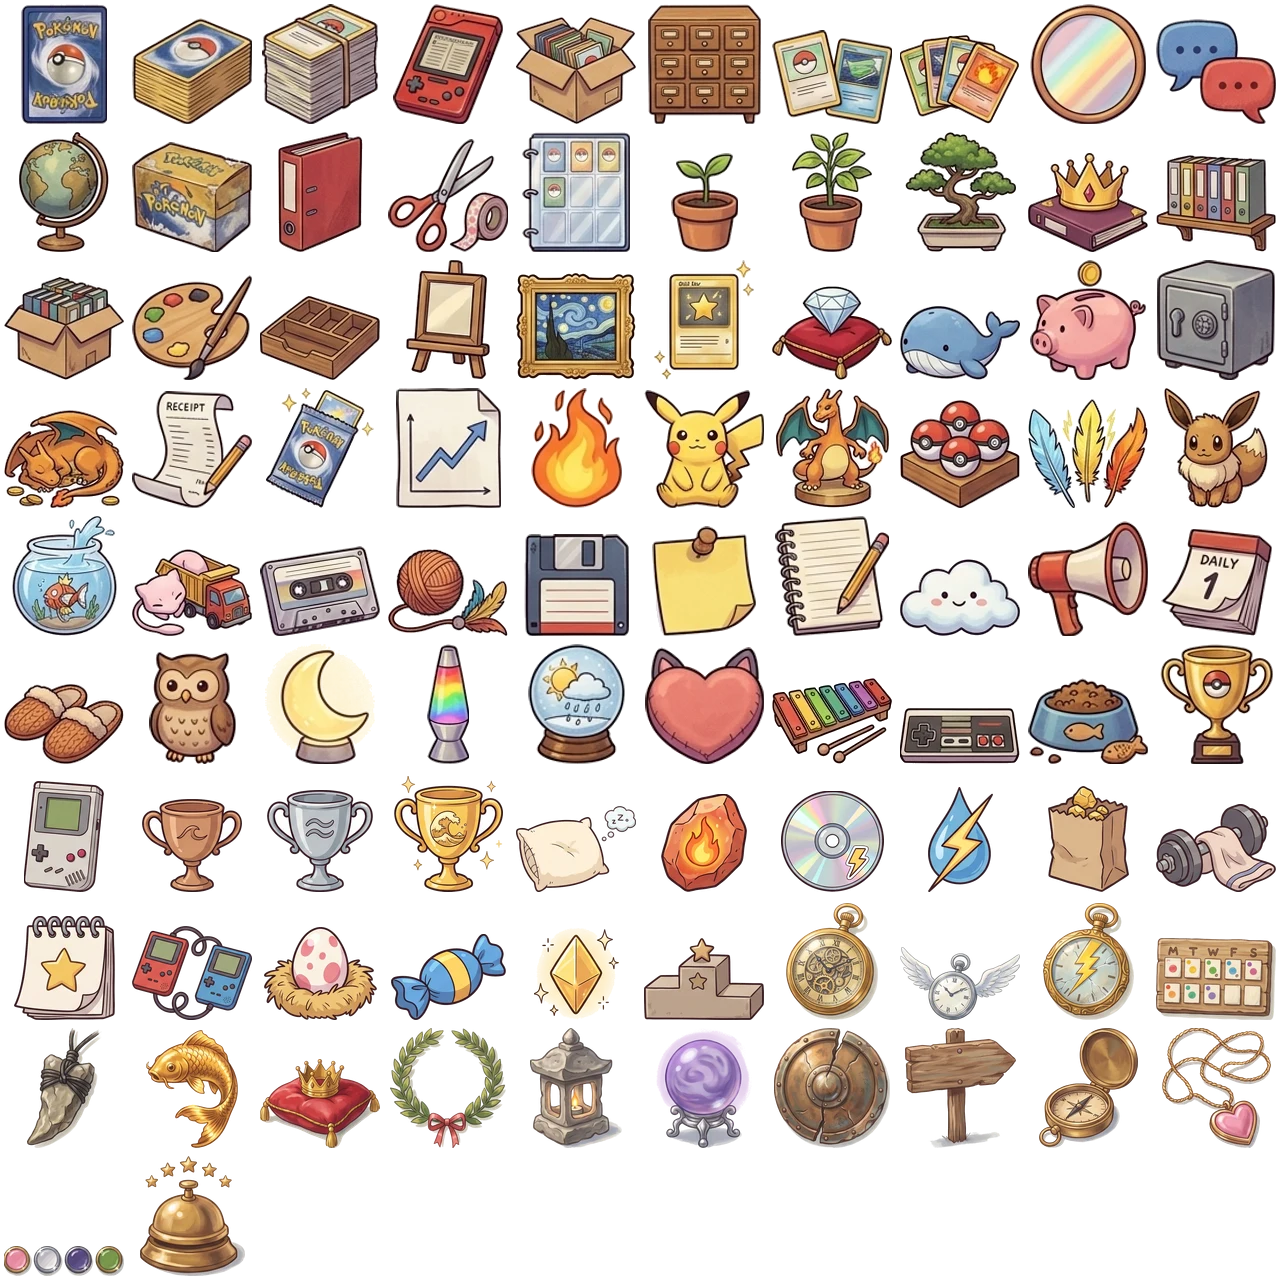
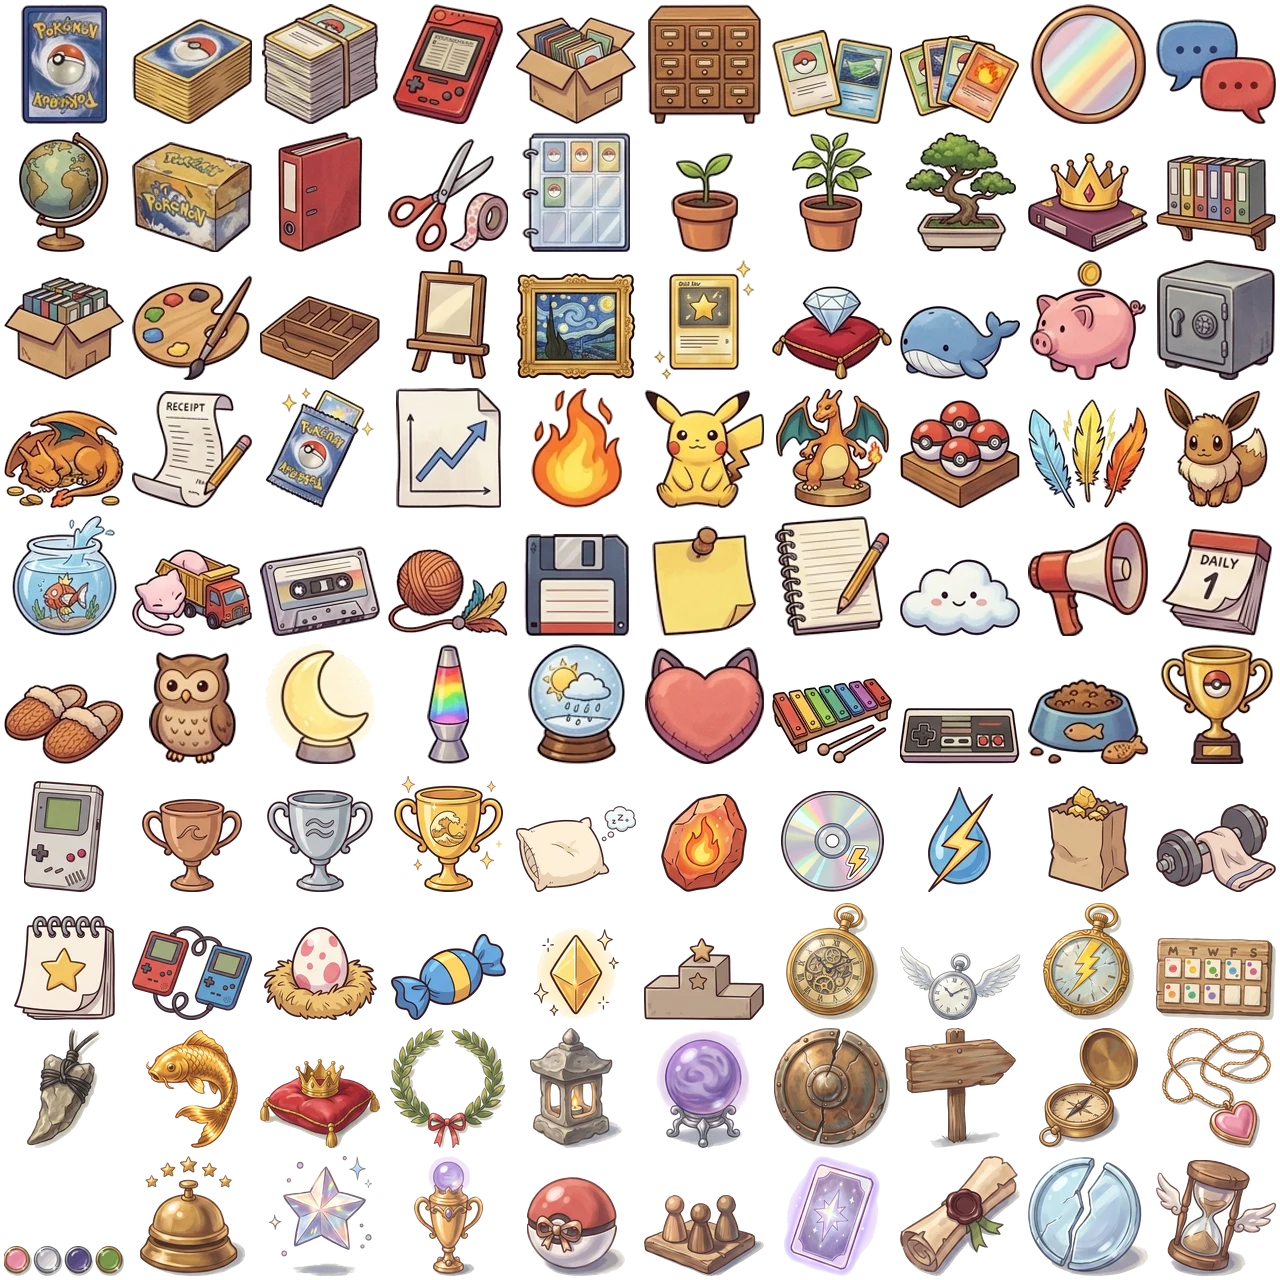
Trophies: 8 for Nook Survivors' late game and shinies (#183)

Changed region(s): [[0.4062, 0.9062, 1.0, 1.0], [0.2188, 0.9062, 0.2812, 1.0], [0.3125, 0.9062, 0.375, 1.0]]

diff --git a/src/lib/game/engine.ts b/src/lib/game/engine.ts
@@ -982,6 +982,7 @@ export class Game {
   shinyBurst() {
     const p = this.players.find((q) => q.shiny);
     if (!p) return;
+    unlock("game-shiny");
     this.flash = 1;
     for (let i = 0; i < 50; i++) this.part(p.x + rand(-6, 6), p.y - 10, rand(-1, 1) * 110, rand(-1, 1) * 110, i % 2 ? "gold" : "white", 1.2, 2, 0, "spark");
     this.showBanner(
@@ -1089,6 +1090,7 @@ export class Game {
     } else if (c.kind === "paragon") {
       const id = c.id as ParagonId;
       if (!this.has(id)) this.cur.paragons.push(id);
+      unlock("game-paragon");
       if (id === "second") this.revives++;
       this.flash = 0.8;
       for (let i = 0; i < 30; i++) this.part(this.x, this.y - 10, rand(-1, 1) * 80, rand(-1, 1) * 80, "psy", 1, 2, 0, "spark");
@@ -1580,6 +1582,7 @@ export class Game {
     if (won && !this.setup.defi) {
       unlock("game-wave100");
       unlock("game-wave200");
+      unlock("game-wave300");
     }
     if (won && this.setup.defi) this.defiWon(this.players[0].starter.dex, Math.floor(this.time));
     const met = !!daily && this.wave >= daily.target;
@@ -1697,7 +1700,10 @@ export class Game {
       this.waveGap = WAVE_GAP;
       // cleared with a third of its time left, from wave 25: a Rare Candy (a level), speed pays
       const fast = this.wave >= 25 && this.waveT < waveLength(this.wave) * 0.67;
-      if (fast) for (const p of this.alive()) this.drop("rare", p.x + rand(-10, 10), p.y - 10, 0);
+      if (fast) {
+        unlock("game-fast");
+        for (const p of this.alive()) this.drop("rare", p.x + rand(-10, 10), p.y - 10, 0);
+      }
       // what lies on the ground comes to you
       for (const p of this.pickups) p.pull = true;
       gsfx.rare();
@@ -2978,6 +2984,7 @@ export class Game {
       e.hp -= dmg - took;
       shielded = true;
       if (e.shield <= 0) {
+        unlock("game-shield");
         e.state = "";
         e.z = 0;
         e.alpha = 1;
@@ -3040,6 +3047,7 @@ export class Game {
       if (this.pact) {
         this.pact = null;
         this.pactKept = true;
+        unlock("game-pact");
       }
       music.boss(false);
       this.shake = 10;
@@ -4103,6 +4111,8 @@ export class Game {
     const mine = this.allies.filter((a) => a.owner === this.cur.id);
     if (mine.length >= max) this.allies.splice(this.allies.indexOf(mine[0]), 1);
     this.allies.push({ dex, elem: b.shot, owner: this.cur.id, x: this.x, y: this.y, dir: 0, t: 0, cd: 1 });
+    unlock("game-ally");
+    if (this.allies.filter((a) => a.owner === this.cur.id).length >= 3) unlock("game-team");
     this.flash = 0.6;
     for (let i = 0; i < 20; i++) this.part(this.x, this.y - 10, rand(-60, 60), rand(-70, 10), "white", 0.6, 2, 60, "spark");
     gsfx.evolveDone();

diff --git a/src/lib/trophies.ts b/src/lib/trophies.ts
@@ -167,6 +167,15 @@ export const TROPHIES: Trophy[] = [
   { id: "game-charm", tier: "bronze", cat: "game", name: { fr: "Charmeur", en: "Charmer" }, desc: { fr: "Charme 100 ennemis dans une même partie.", en: "Charm 100 foes in one run." } },
   { id: "game-types", tier: "silver", cat: "game", name: { fr: "Touche-à-tout", en: "Jack of all types" }, desc: { fr: "Fée, Acier, Ténèbres et Insecte dans une même partie.", en: "Fairy, Steel, Dark and Bug in one run." } },
   { id: "game-rank2", tier: "gold", cat: "game", name: { fr: "Pension 5 étoiles", en: "Five-star Pension" }, desc: { fr: "Achète un niveau du 2ᵉ rang de la Pension.", en: "Buy a 2nd-rank level at the Pension." } },
+  // the late game's new rules and the shinies (2026-10-20)
+  { id: "game-shiny", tier: "gold", cat: "game", name: { fr: "Chromatique", en: "Shiny" }, desc: { fr: "Commence une partie avec un starter shiny.", en: "Start a run with a shiny starter." } },
+  { id: "game-wave300", tier: "gold", cat: "game", name: { fr: "Tricentenaire", en: "Tricentennial" }, desc: { fr: "Bats les 300 vagues.", en: "Beat all 300 waves." } },
+  { id: "game-ally", tier: "bronze", cat: "game", name: { fr: "Nouveau copain", en: "New pal" }, desc: { fr: "Un boss rejoint ton équipe.", en: "A boss joins your team." } },
+  { id: "game-team", tier: "gold", cat: "game", name: { fr: "Toute une équipe", en: "A whole team" }, desc: { fr: "Trois alliés à tes côtés en même temps.", en: "Three allies by your side at once." } },
+  { id: "game-paragon", tier: "silver", cat: "game", name: { fr: "Paragon", en: "Paragon" }, desc: { fr: "Prends une carte Paragon.", en: "Take a Paragon card." } },
+  { id: "game-pact", tier: "silver", cat: "game", name: { fr: "Pacte tenu", en: "Pact kept" }, desc: { fr: "Tiens un pacte de Kecleon jusqu'au boss.", en: "Keep a pact of Kecleon's until the boss." } },
+  { id: "game-shield", tier: "bronze", cat: "game", name: { fr: "Brise-bouclier", en: "Shield breaker" }, desc: { fr: "Casse le bouclier d'un boss.", en: "Break a boss's shield." } },
+  { id: "game-fast", tier: "bronze", cat: "game", name: { fr: "Express", en: "Express" }, desc: { fr: "Vide une vague assez vite pour un Super Bonbon.", en: "Clear a wave fast enough for a Rare Candy." } },
 
   // Secrets: no hint but "???" until found
   { id: "night-owl", tier: "silver", cat: "secret", secret: true, name: { fr: "Oiseau de nuit", en: "Night owl" }, desc: { fr: "Au bureau entre minuit et 5 h.", en: "At the desk between midnight and 5 am." } },

diff --git a/src/data/changelog.ts b/src/data/changelog.ts
@@ -24,7 +24,8 @@ export const CHANGELOG: Release[] = [
       { fr: "Un boss vaincu lâche parfois sa Poké Ball : il se bat à tes côtés.", en: "A beaten boss sometimes drops its Poké Ball: it fights by your side." },
       { fr: "11 nouvelles capacités, 3 objets, 5 combos et 3 builds de départ.", en: "11 new moves, 3 items, 5 combos and 3 starting builds." },
       { fr: "300 vagues, départs jusqu'à la 275, et après la 100 les bonbons viennent tout seuls.", en: "300 waves, starts up to 275, and past 100 candies come to you." },
-      { fr: "Une partie sur 40, ton starter est shiny : son sprite, et des stats de fou.", en: "One run in 40, your starter is shiny: its sprite, and crazy stats." },    ],
+      { fr: "Une partie sur 40, ton starter est shiny : son sprite, et des stats de fou.", en: "One run in 40, your starter is shiny: its sprite, and crazy stats." },
+      { fr: "8 nouveaux trophées Nook Survivors, du Chromatique au Tricentenaire.", en: "8 new Nook Survivors trophies, from Shiny to Tricentennial." },    ],
   },
   {
     version: "0.15",

diff --git a/CLAUDE.md b/CLAUDE.md
@@ -189,16 +189,16 @@ doesn't show.
 
 ## Trophies
 
-- `lib/trophies.ts` (the 92: 60 for the desk and the collection, 32 for Nook Survivors won in the game and not needed
+- `lib/trophies.ts` (the 100: 60 for the desk and the collection, 40 for Nook Survivors won in the game and not needed
   for "all"; `factsOf` worked out from the collection), won by `useTrophyWatch` (debounced, waits for the
   cloud) or by `unlock(id)` on a gesture (room easter eggs, OS, share, combo, tip links). Kept in their own store
   (`lib/trophyStore`, localStorage `nookdex:trophies`), ride in the save (`Backup.trophies`) and the cloud, merged and never
   in the conflict fingerprint. Toasts `room/TrophyToast` (4+ at once = one summary), case `room/TrophyCase` from the
   Poké Ball hotspot on the top shelf (`data-tour="trophies"`).
 - Their pictures: painted trinkets drawn by Gemini on white sheets (`img/trophies.jpg` 10×6, `img/trophies-game.jpg` 4×4,
-  `img/trophies-defi.jpg` and `img/trophies-beyond.jpg` 4×2, in the order of `ORDER` / `ORDER_GAME` / `ORDER_GAME2` /
-  `ORDER_GAME3` in `scripts/build-trophies.mjs`), cut out by that script into `public/trophies.webp` + `src/data/trophy-art.json`. A new
-  trophy needs its trinket: a new sheet (same style prompt) and the script run again.
+  `img/trophies-defi.jpg`, `img/trophies-beyond.jpg` and `img/trophies-plus.jpg` 4×2, in the order of `ORDER` / `ORDER_GAME` /
+  `ORDER_GAME2` / `ORDER_GAME3` / `ORDER_GAME4` in `scripts/build-trophies.mjs`), cut out by that script into `public/trophies.webp` + `src/data/trophy-art.json`. A new
+  trophy needs its trinket: a new sheet (same style prompt, docs/defi.md, with the last sheet attached as a reference) and the script run again.
 
 ## Versions and the road log
 
